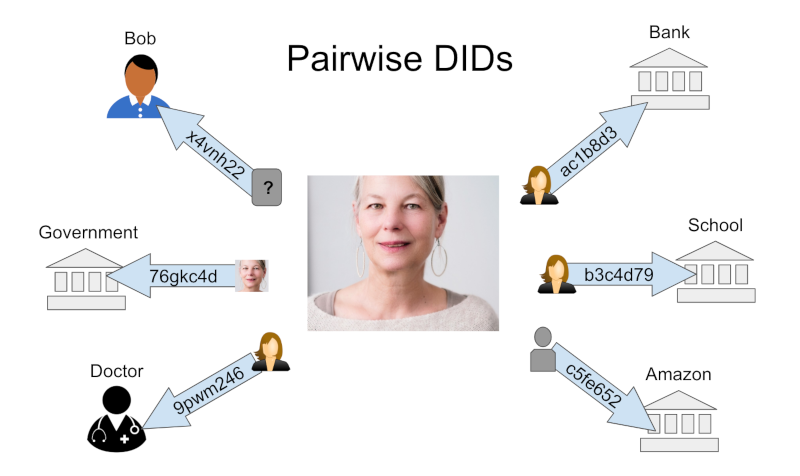
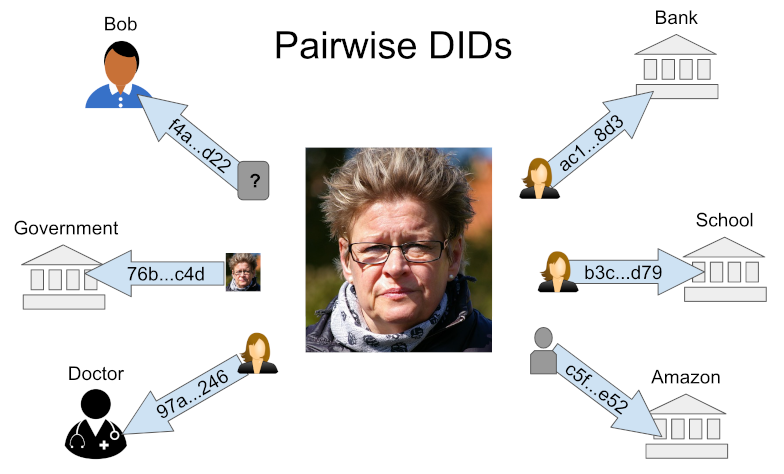
Improve privacy note

diff --git a/privacy.html b/privacy.html
@@ -6,7 +6,8 @@
 
 <figure id="diff-pairwise-dids-in-each-rel">
     <img src="pairwise.png" alt="many pairwise DIDs"/>
-    <figcaption>Alice maintains different pairwise DIDs in each relationship.</figcaption>
+    <figcaption>Alice maintains different pairwise DIDs for each relationship, and discloses different
+        aspects and quantities about herself in each one.</figcaption>
 </figure>
 
 <section>
